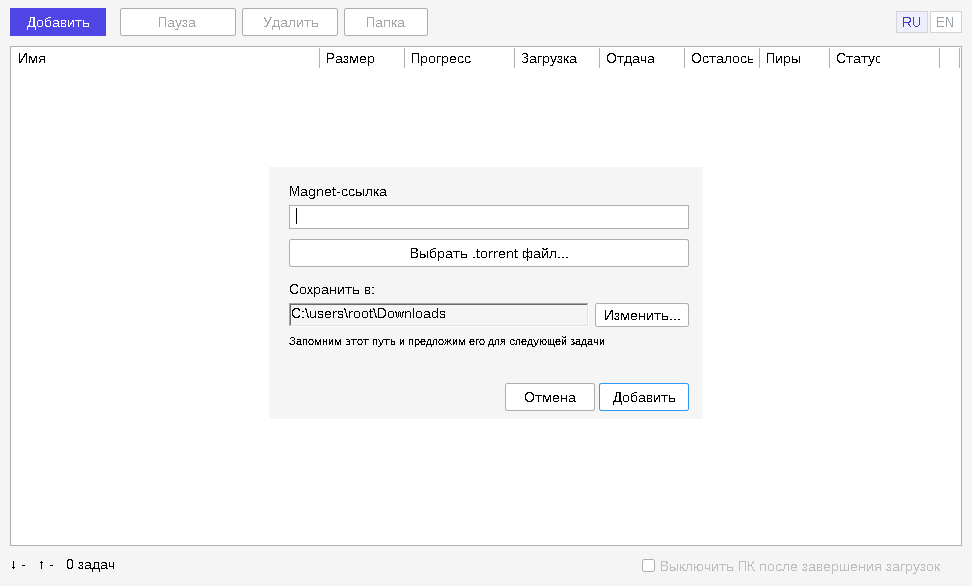
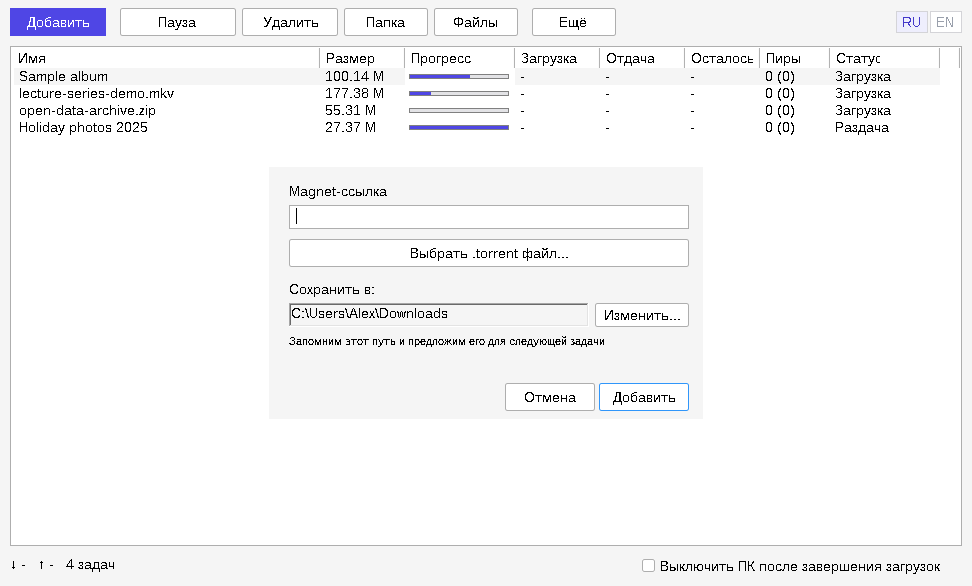
Docs: new screenshots, drop 'lightly tested' remarks
Claude-Session: https://claude.ai/code/session_01R864DmfK4bmcAsS6h6wc73

diff --git a/README.ru.md b/README.ru.md
@@ -8,7 +8,9 @@
 
 ![Окно добавления торрента](docs/screenshot-add-ru.png)
 
-> Снимки экрана сделаны под Wine в Linux, поэтому шрифты и рамки окон на настоящей Windows выглядят немного иначе.
+![Меню «Ещё» с ограничением скорости](docs/screenshot-more-ru.png)
+
+> Снимки сделаны на Linux-сборщике, поэтому шрифты и рамки окон в Windows выглядят немного иначе.
 
 ## Скачать
 
@@ -36,7 +38,7 @@
 
 Проект маленький, и его ограничения названы прямо:
 
-- **Проверена слабо.** Автор пользовался версиями 1.0 и 1.1 в Windows. Новое в 1.2 проверялось только под Wine: вопрос при первом запуске, запись и удаление регистрации, magnet-ссылка, открытая через оболочку Windows и попавшая в открытое окно, окно «Файлы» (снятие файла, сохранение выбора после перезапуска), меню «Ещё» и ограничение скорости, сообщение о повторном торренте. Как «Приложения по умолчанию» Windows 10/11 отнесутся к регистрации, под Wine не проверить — эта часть не проверена. Автоматических тестов нет. Сообщайте о найденном.
+- **Проверено вручную.** Автор запускал каждый релиз в Windows, включая новое в 1.2 (связь с файлами, окно «Файлы», ограничение скорости). Автоматических тестов нет, поэтому сообщайте о всём странном.
 - Файлы можно только скачивать или пропускать: нет приоритетов, своей очереди и расписания. Файлы выбираются после добавления торрента, поэтому в первые секунды могут скачаться части файлов, которые вы потом снимете.
 - Ограничения скорости — готовые значения, а не произвольные числа (любое значение можно задать в реестре, см. ниже).
 - Нет значка в трее, уведомлений, автообновления и «портативного» режима.

diff --git a/release-notes/v1.2.0.md b/release-notes/v1.2.0.md
@@ -9,7 +9,7 @@ One self-contained `litetorrent.exe` for Windows 10/11 x64 — unpack and run.
 - Fixed a possible crash around the "already in the list" message.
 - This release was built by GitHub Actions straight from the tagged commit (link and SHA-256 below).
 
-**Known limits:** files can only be downloaded or skipped (no priorities); speed limits are presets; the exe is not code-signed (SmartScreen will warn). The 1.2 additions were checked under Wine only; how Windows "Default apps" handle the registration is untested. Details in the README and CHANGELOG.
+**Known limits:** files can only be downloaded or skipped (no priorities); speed limits are presets; the exe is not code-signed (SmartScreen will warn). Tested by hand on Windows. Details in the README and CHANGELOG.
 
 ---
 
@@ -20,4 +20,4 @@ One self-contained `litetorrent.exe` for Windows 10/11 x64 — unpack and run.
 - Исправлено возможное падение при сообщении «торрент уже в списке».
 - Этот релиз собран GitHub Actions прямо из помеченного коммита (ссылка и SHA-256 ниже).
 
-**Ограничения:** файлы можно только скачивать или пропускать (без приоритетов); ограничения скорости — готовые значения; exe не подписан (SmartScreen предупредит). Новое в 1.2 проверено только под Wine; как «Приложения по умолчанию» Windows отнесутся к регистрации, не проверено. Подробности — в README и CHANGELOG.
+**Ограничения:** файлы можно только скачивать или пропускать (без приоритетов); ограничения скорости — готовые значения; exe не подписан (SmartScreen предупредит). Проверено вручную в Windows. Подробности — в README и CHANGELOG.

diff --git a/README.md b/README.md
@@ -8,7 +8,9 @@ A deliberately small BitTorrent client for Windows: one 9.5 MB `.exe`, no instal
 
 ![Main window](docs/screenshot-main.png)
 
-> The screenshots were taken under Wine on Linux, so fonts and window frames look slightly different on real Windows.
+![Choosing files inside a torrent](docs/screenshot-files.png)
+
+> The screenshots were captured with a Linux build runner, so fonts and window frames look slightly different on Windows.
 
 ## Download
 
@@ -36,7 +38,7 @@ Get `LiteTorrent-Windows-x64.zip` from the [Releases](../../releases) page, unpa
 
 This is a small project and it is honest about its limits:
 
-- **Lightly tested.** The author has used versions 1.0 and 1.1 on Windows. The 1.2 additions were checked only under Wine: the first-start question, writing and removing the registration, a magnet link opened through Windows' shell reaching the running window, the Files window (unticking a file, the choice surviving a restart), the More menu and speed limits, and the duplicate notice. Wine cannot show how Windows 10/11 "Default apps" treat the registration, so that part is untested. There is no automated test suite. Please report what you find.
+- **Tested by hand.** The author has run every release on Windows, including the 1.2 additions (file association, the Files window, speed limits). There is no automated test suite, so please report anything odd.
 - Files can only be downloaded or skipped: no priorities, no custom queue order, no scheduler. Files are chosen after a torrent is added, so the first seconds of a download may fetch parts of files you then untick.
 - Speed limits are presets, not arbitrary numbers (any value can still be set in the registry, see below).
 - No tray icon, no notifications, no auto-update, no portable-mode switch.
